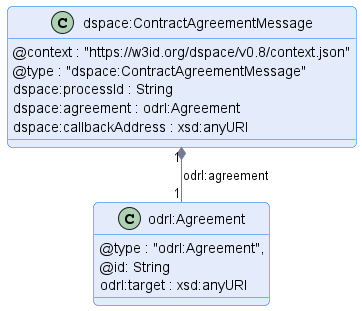
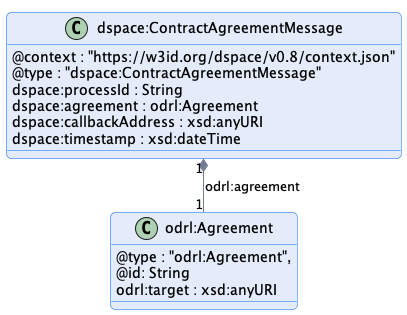
Introduce an agreement timestamp

Changed region(s): [[0.0, 0.0, 1.0, 0.9839]]

diff --git a/negotiation/contract.negotiation.protocol.md b/negotiation/contract.negotiation.protocol.md
@@ -126,6 +126,8 @@ A `ContractAgreementMessage` must contain a `processId`.
 
 A `ContractAgreementMessage` must contain an ODRL `Agreement`.
 
+A `ContractAgreementMessage` must contain a `dspace:timestamp` property defined as an XSD DateTime type.  
+
 ### 4. ContractAgreementVerificationMessage
 
 
